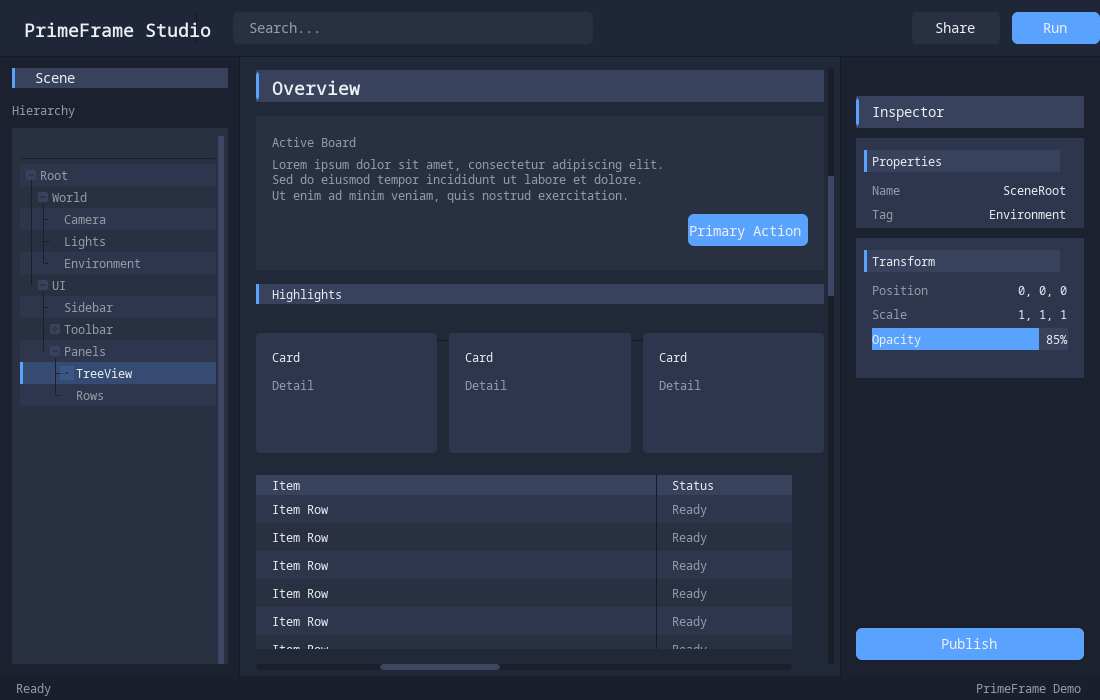
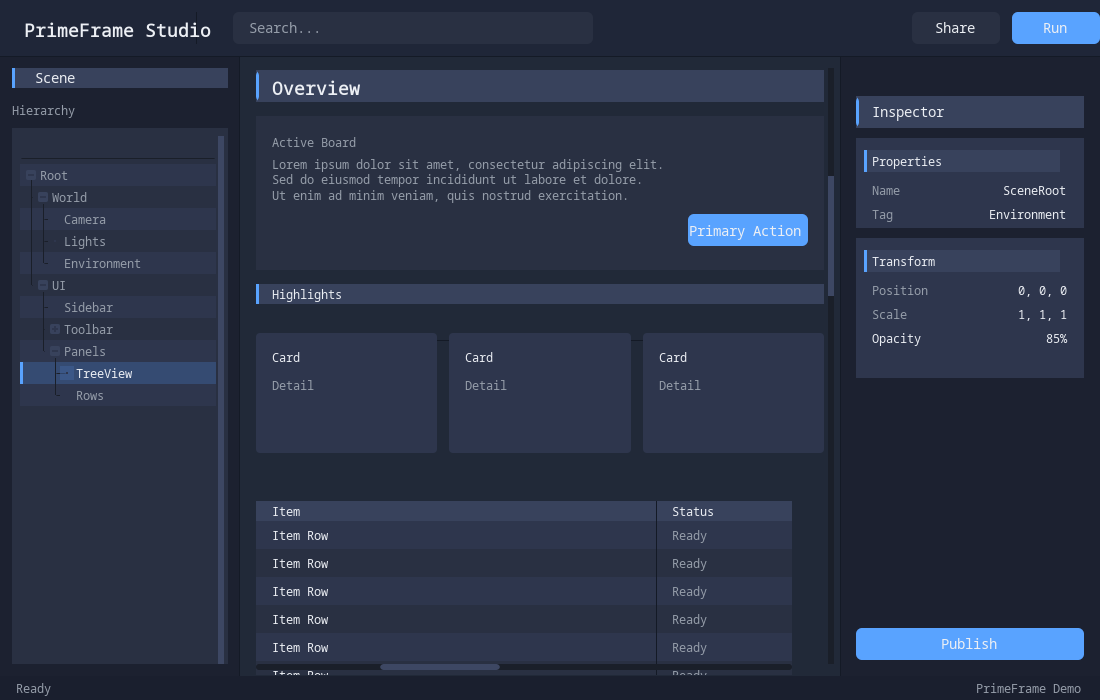
Add size-based property and progress helpers

diff --git a/src/PrimeStage.cpp b/src/PrimeStage.cpp
@@ -1012,7 +1012,7 @@ UiNode UiNode::createSectionHeader(SizeSpec const& size,
 }
 
 SectionPanel UiNode::createSectionPanel(SectionPanelSpec const& spec) {
-  SectionPanel out{createPanel(spec.panelRole, spec.bounds), {}, {}};
+  SectionPanel out{createPanel(spec.panelRole, spec.bounds), UiNode(frame(), PrimeFrame::NodeId{}), {}, {}};
 
   float headerWidth = std::max(0.0f, spec.bounds.width - spec.headerInsetX - spec.headerInsetRight);
   Bounds headerBounds{spec.headerInsetX, spec.headerInsetY, headerWidth, spec.headerHeight};
@@ -1045,6 +1045,14 @@ SectionPanel UiNode::createSectionPanel(SectionPanelSpec const& spec) {
   float contentH = std::max(0.0f,
                             spec.bounds.height - (contentY + spec.contentInsetBottom));
   out.contentBounds = Bounds{contentX, contentY, contentW, contentH};
+  PrimeFrame::NodeId contentId = create_node(frame(), out.panel.nodeId(), out.contentBounds,
+                                             nullptr,
+                                             PrimeFrame::LayoutType::None,
+                                             PrimeFrame::Insets{},
+                                             0.0f,
+                                             false,
+                                             true);
+  out.content = UiNode(frame(), contentId);
 
   return out;
 }
@@ -1064,13 +1072,13 @@ SectionPanel UiNode::createSectionPanel(SizeSpec const& size, std::string_view t
 }
 
 UiNode UiNode::createPropertyList(PropertyListSpec const& spec) {
-  Bounds bounds = spec.bounds;
+  Bounds bounds = resolve_bounds(spec.bounds, spec.size);
   if (bounds.height <= 0.0f && !spec.rows.empty()) {
     bounds.height = static_cast<float>(spec.rows.size()) * spec.rowHeight +
                     static_cast<float>(spec.rows.size() - 1) * spec.rowGap;
   }
   PrimeFrame::NodeId listId = create_node(frame(), id_, bounds,
-                                          nullptr,
+                                          &spec.size,
                                           PrimeFrame::LayoutType::None,
                                           PrimeFrame::Insets{},
                                           0.0f,
@@ -1124,6 +1132,13 @@ UiNode UiNode::createPropertyList(Bounds const& bounds, std::vector<PropertyRow>
   return createPropertyList(spec);
 }
 
+UiNode UiNode::createPropertyList(SizeSpec const& size, std::vector<PropertyRow> rows) {
+  PropertyListSpec spec;
+  spec.size = size;
+  spec.rows = std::move(rows);
+  return createPropertyList(spec);
+}
+
 UiNode UiNode::createPropertyRow(Bounds const& bounds,
                                  std::string_view label,
                                  std::string_view value,
@@ -1140,9 +1155,25 @@ UiNode UiNode::createPropertyRow(Bounds const& bounds,
   return createPropertyList(spec);
 }
 
+UiNode UiNode::createPropertyRow(SizeSpec const& size,
+                                 std::string_view label,
+                                 std::string_view value,
+                                 TextRole role) {
+  PropertyListSpec spec;
+  spec.size = size;
+  spec.labelRole = role;
+  spec.valueRole = role;
+  spec.rows = {{std::string(label), std::string(value)}};
+  return createPropertyList(spec);
+}
+
 UiNode UiNode::createProgressBar(ProgressBarSpec const& spec) {
-  Bounds bounds = spec.bounds;
-  UiNode bar = createPanel(spec.trackRole, bounds);
+  Bounds bounds = resolve_bounds(spec.bounds, spec.size);
+  PanelSpec panel;
+  panel.bounds = bounds;
+  panel.size = spec.size;
+  panel.rectStyle = rectToken(spec.trackRole);
+  UiNode bar = createPanel(panel);
   float clamped = std::clamp(spec.value, 0.0f, 1.0f);
   float fillWidth = bounds.width * clamped;
   if (spec.minFillWidth > 0.0f && clamped > 0.0f) {
@@ -1157,6 +1188,13 @@ UiNode UiNode::createProgressBar(ProgressBarSpec const& spec) {
 UiNode UiNode::createProgressBar(Bounds const& bounds, float value) {
   ProgressBarSpec spec;
   spec.bounds = bounds;
+  spec.value = value;
+  return createProgressBar(spec);
+}
+
+UiNode UiNode::createProgressBar(SizeSpec const& size, float value) {
+  ProgressBarSpec spec;
+  spec.size = size;
   spec.value = value;
   return createProgressBar(spec);
 }

diff --git a/examples/primestage_render_demo.cpp b/examples/primestage_render_demo.cpp
@@ -256,17 +256,12 @@ int main(int argc, char** argv) {
     float gaps = columnSpec.gap * 5.0f;
     float availableTableH = contentH - columnSpec.padding.vertical() - usedHeight - gaps;
 
-    float listY = 0.0f;
-    float listHeaderY = listY - UiDefaults::TableHeaderOffset;
     float tableWidth = contentW - UiDefaults::SurfaceInset - UiDefaults::TableRightInset;
     float firstColWidth = contentW - UiDefaults::TableStatusOffset;
     float secondColWidth = tableWidth - firstColWidth;
 
     TableSpec tableSpec;
-    tableSpec.bounds = Bounds{0.0f,
-                              listHeaderY - UiDefaults::TableHeaderPadY,
-                              0.0f,
-                              0.0f};
+    tableSpec.bounds = Bounds{};
     tableSpec.size.preferredWidth = tableWidth;
     tableSpec.size.preferredHeight = std::max(1.0f, availableTableH);
     tableSpec.showHeaderDividers = false;
@@ -323,11 +318,31 @@ int main(int argc, char** argv) {
     transformSize.preferredHeight = UiDefaults::PanelHeightM;
     SectionPanel transformPanel = column.createSectionPanel(transformSize, "Transform");
 
-    float opacityRowY = transformPanel.contentBounds.y + UiDefaults::InlineRowOffset;
-    float opacityBarX = transformPanel.contentBounds.x;
-    transformPanel.panel.createProgressBar(
-        Bounds{opacityBarX, opacityRowY, transformPanel.contentBounds.width, opacityBarH},
-        0.85f);
+    SizeSpec propsListSize;
+    propsListSize.preferredWidth = propsPanel.contentBounds.width;
+    propsPanel.content.createPropertyList(propsListSize,
+                                          {{"Name", "SceneRoot"}, {"Tag", "Environment"}});
+
+    StackSpec transformStackSpec;
+    transformStackSpec.size.preferredWidth = transformPanel.contentBounds.width;
+    transformStackSpec.size.preferredHeight = transformPanel.contentBounds.height;
+    transformStackSpec.gap = UiDefaults::PanelInset;
+    UiNode transformStack = transformPanel.content.createVerticalStack(transformStackSpec);
+
+    SizeSpec transformListSize;
+    transformListSize.preferredWidth = transformPanel.contentBounds.width;
+    transformStack.createPropertyList(transformListSize,
+                                      {{"Position", "0, 0, 0"}, {"Scale", "1, 1, 1"}});
+
+    SizeSpec opacityRowSize;
+    opacityRowSize.preferredWidth = transformPanel.contentBounds.width;
+    opacityRowSize.preferredHeight = opacityBarH;
+    transformStack.createPropertyRow(opacityRowSize, "Opacity", "85%");
+
+    SizeSpec opacityBarSize;
+    opacityBarSize.preferredWidth = transformPanel.contentBounds.width;
+    opacityBarSize.preferredHeight = opacityBarH;
+    transformStack.createProgressBar(opacityBarSize, 0.85f);
 
     SizeSpec footerSpacer;
     footerSpacer.stretchY = 1.0f;
@@ -340,16 +355,6 @@ int main(int argc, char** argv) {
                         ButtonVariant::Primary,
                         publishSize);
 
-    propsPanel.panel.createPropertyList(propsPanel.contentBounds,
-                                        {{"Name", "SceneRoot"}, {"Tag", "Environment"}});
-
-    transformPanel.panel.createPropertyList(transformPanel.contentBounds,
-                                            {{"Position", "0, 0, 0"}, {"Scale", "1, 1, 1"}});
-
-    Bounds opacityLabelBounds = transformPanel.contentBounds;
-    opacityLabelBounds.y = opacityRowY;
-    opacityLabelBounds.height = opacityBarH;
-    transformPanel.panel.createPropertyRow(opacityLabelBounds, "Opacity", "85%");
   };
 
   auto create_status = [&]() {

diff --git a/include/PrimeStage/StudioUiTypes.h b/include/PrimeStage/StudioUiTypes.h
@@ -155,6 +155,7 @@ struct PropertyListSpec {
   TextRole labelRole = TextRole::SmallMuted;
   TextRole valueRole = TextRole::SmallBright;
   std::vector<PropertyRow> rows;
+  SizeSpec size;
 };
 
 struct ProgressBarSpec {
@@ -163,6 +164,7 @@ struct ProgressBarSpec {
   float minFillWidth = 0.0f;
   RectRole trackRole = RectRole::PanelStrong;
   RectRole fillRole = RectRole::Accent;
+  SizeSpec size;
 };
 
 struct StatusBarSpec {

diff --git a/include/PrimeStage/Ui.h b/include/PrimeStage/Ui.h
@@ -255,6 +255,7 @@ private:
 #ifdef PRIMESTAGE_STUDIO_UI
 struct SectionPanel {
   UiNode panel;
+  UiNode content;
   Bounds headerBounds;
   Bounds contentBounds;
 };
